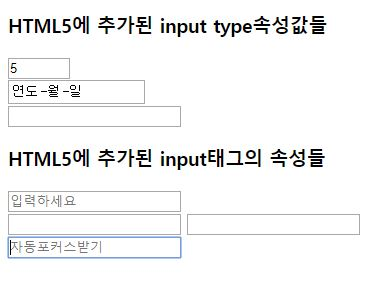
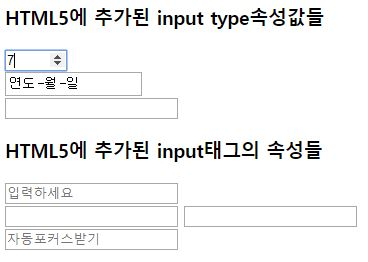
add picture of Web html2-2

diff --git a/nokbeondev.github.io-readyToPost/2019-05-05-Web_HTML_basic.md b/nokbeondev.github.io-readyToPost/2019-05-05-Web_HTML_basic.md
@@ -107,7 +107,8 @@ HTML은 버전 별로 지원하는 태그가 조금씩 다르다. 그래서 HTML
     </form>
   </div>
 ```
-
+위의 코드는 아래와 같이 웹 브라우저에서 표현된다.
+![input설명그림](https://nokbeondev.github.io/img/Web_html_input.JPG)
 
 - `<select>`, `<option>`
 - `<textarea>`
